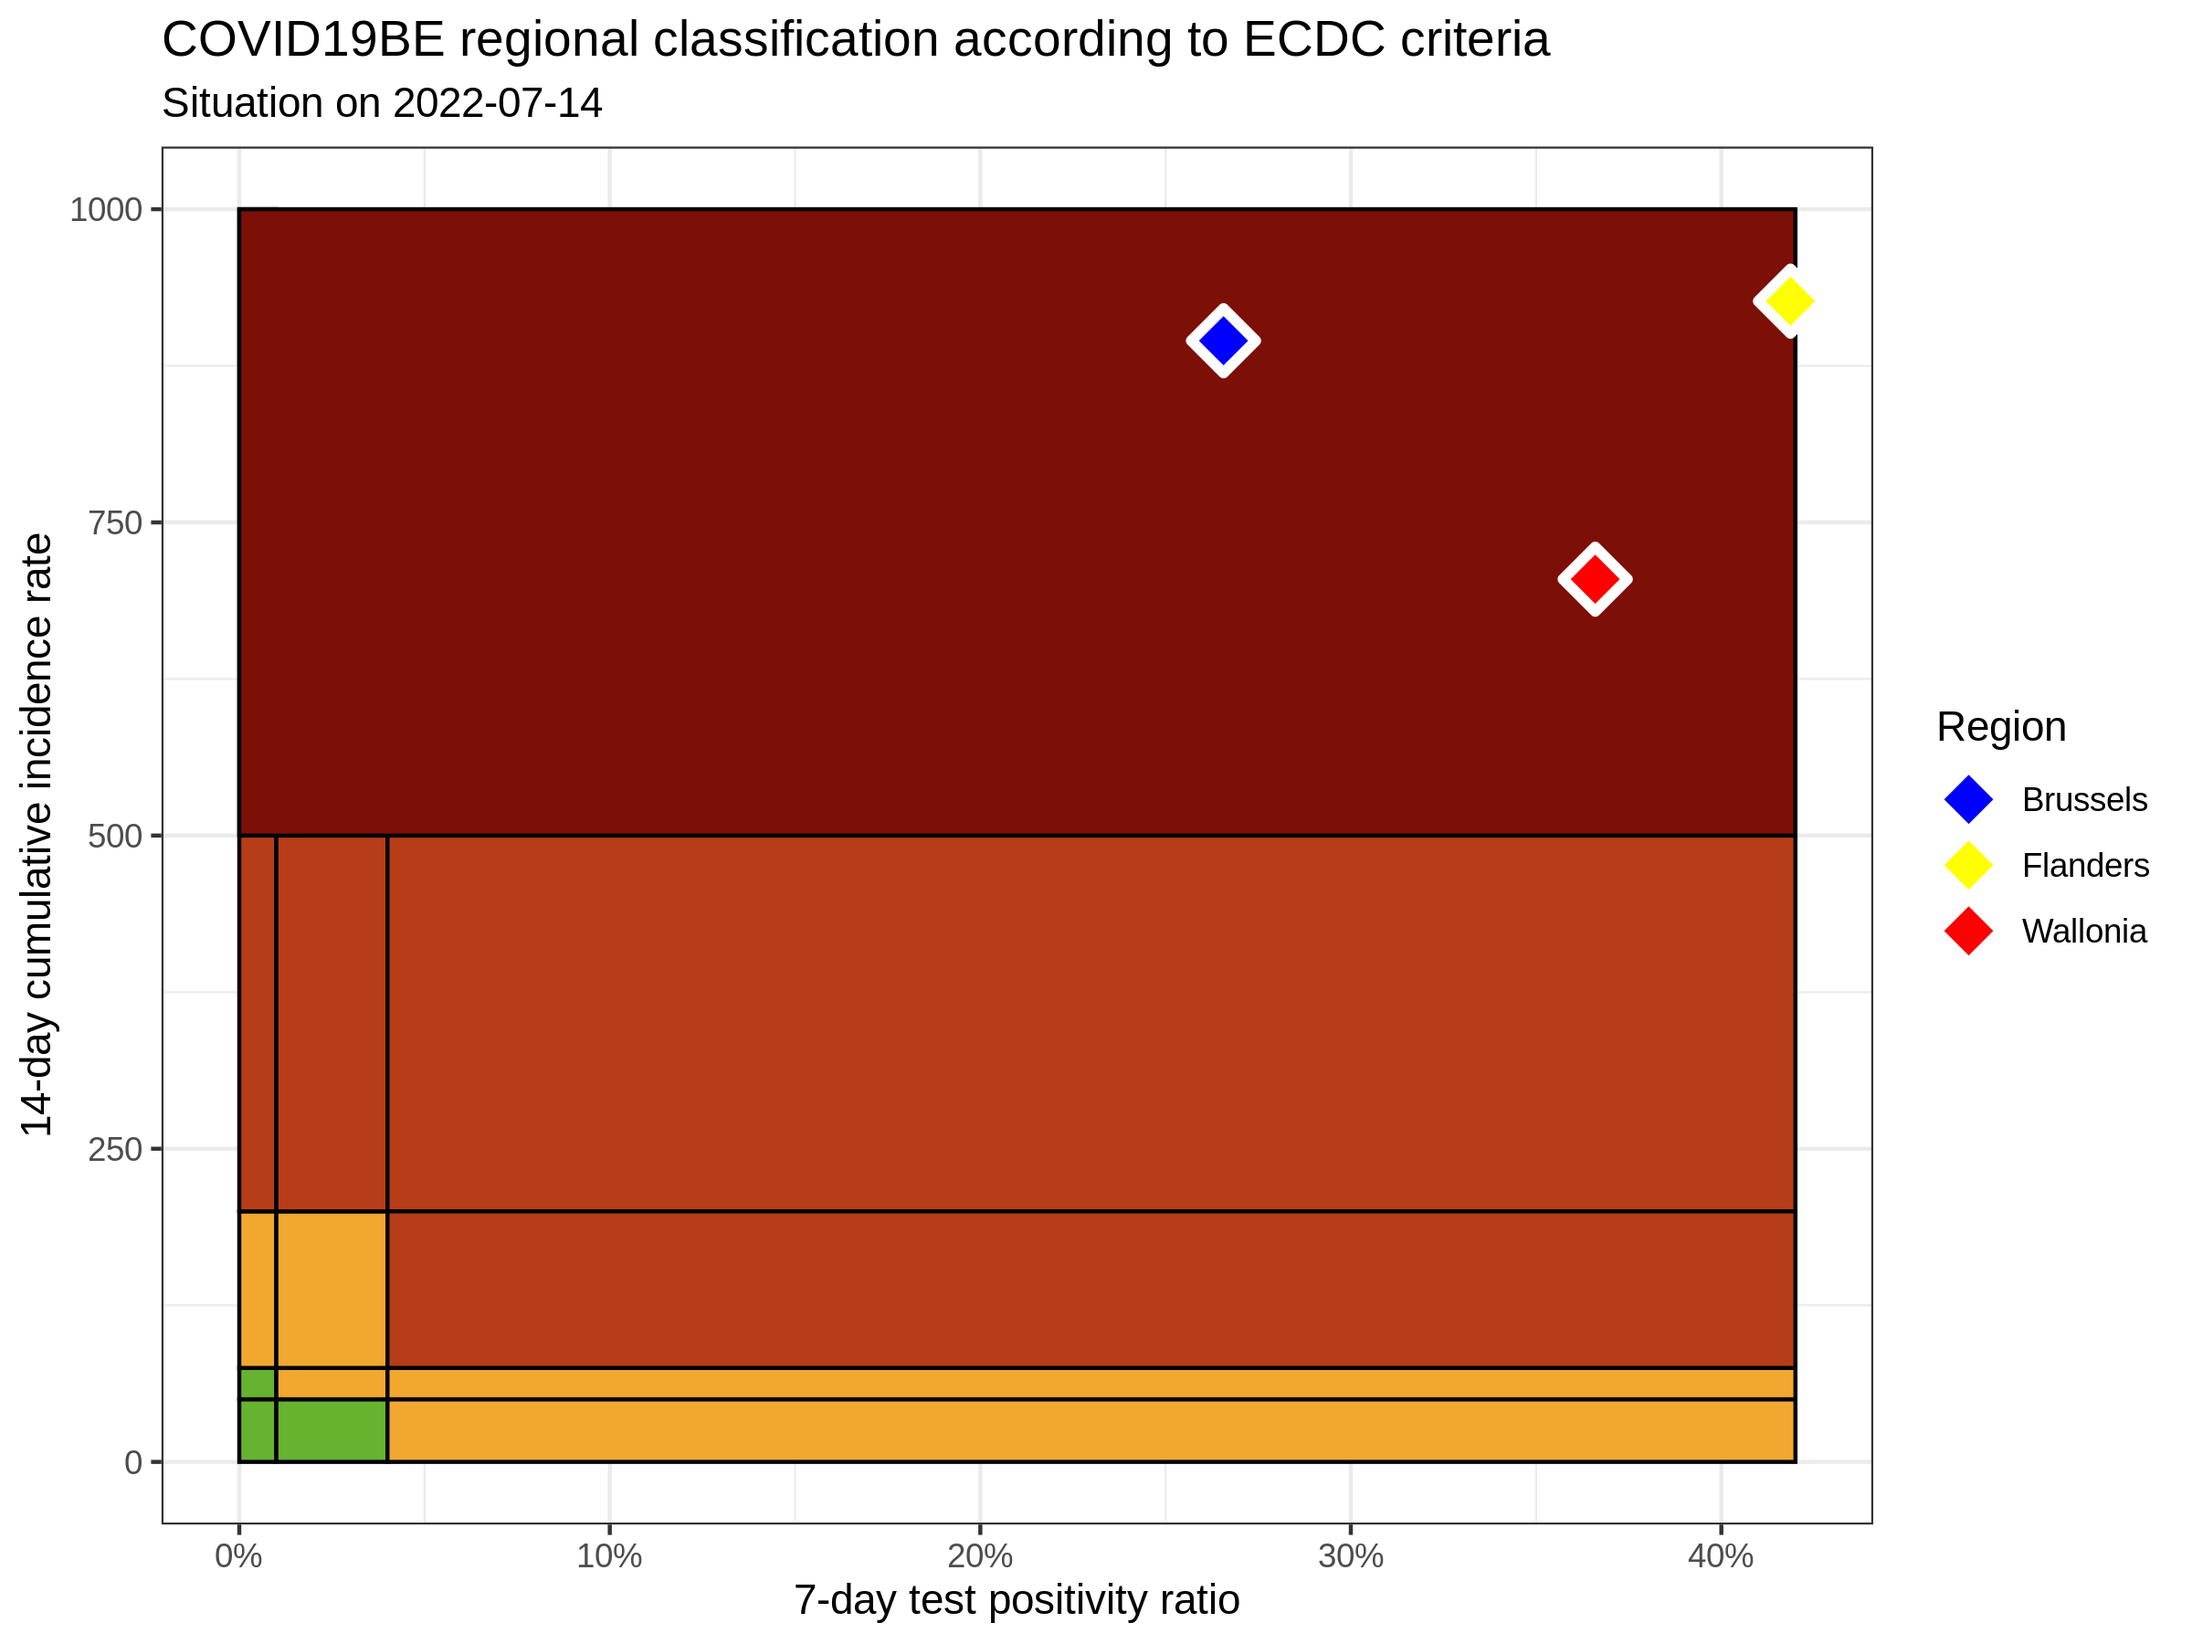
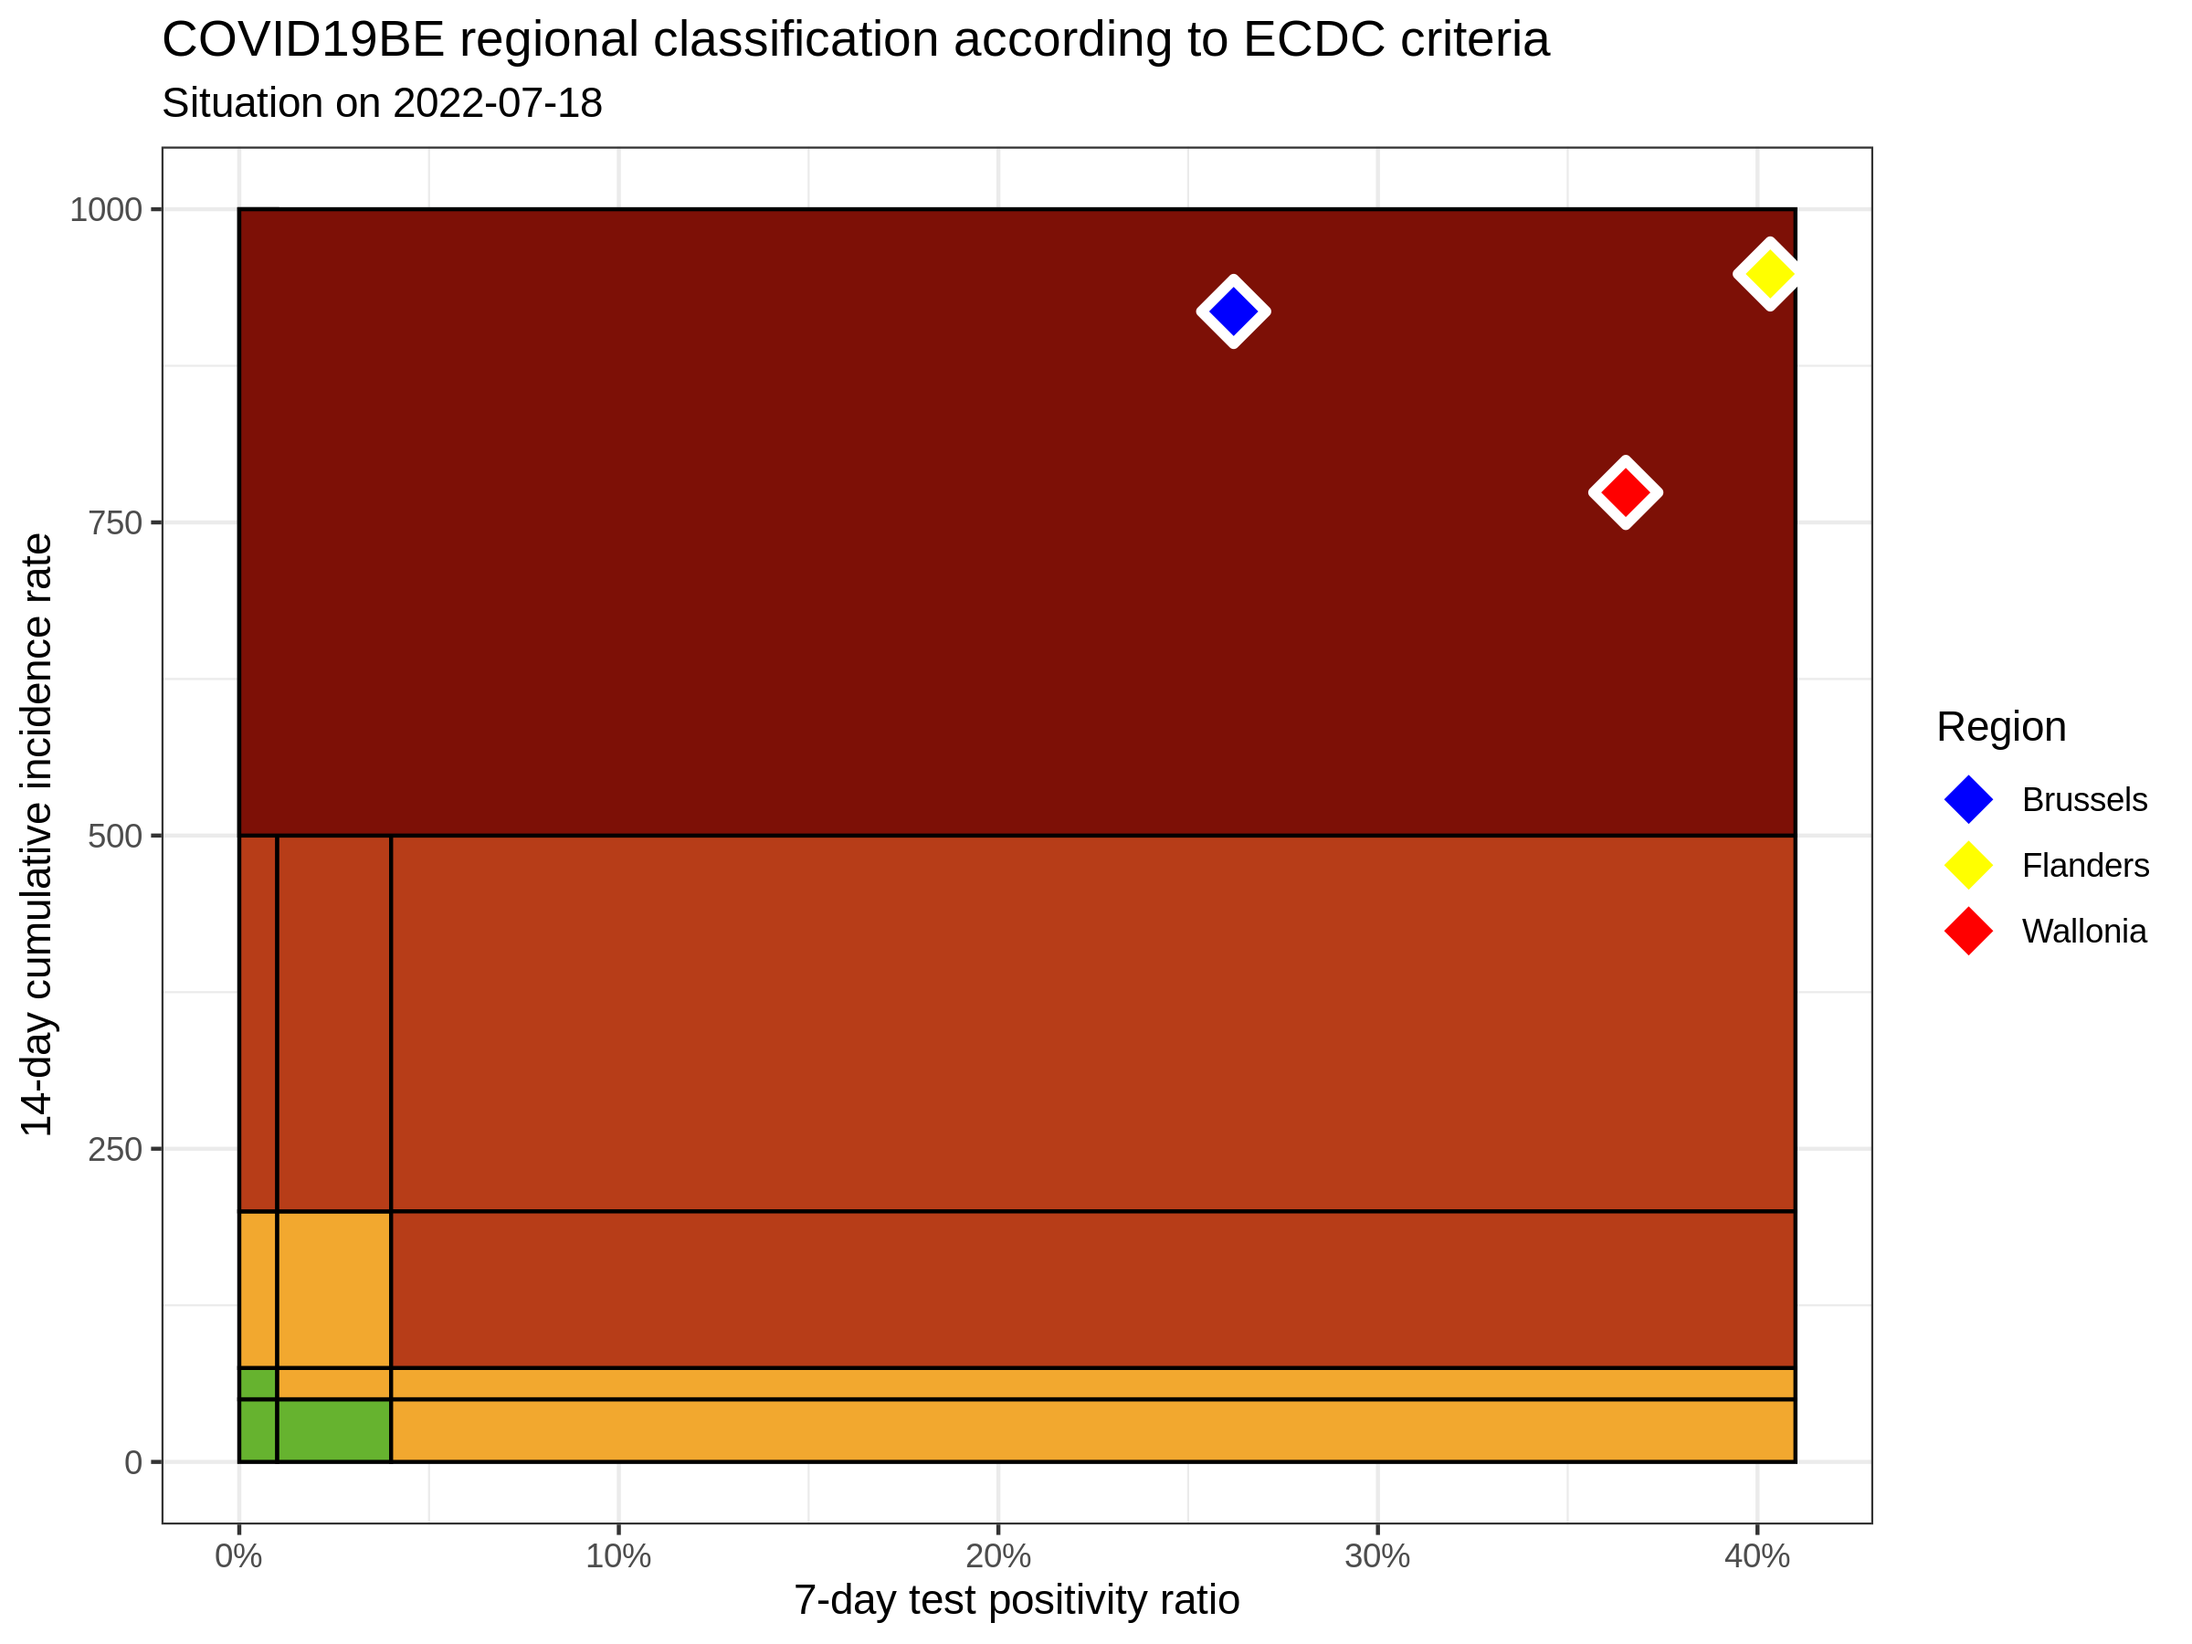
update situation

diff --git a/ecdc-trend/README.md b/ecdc-trend/README.md
@@ -9,11 +9,11 @@
 
 ![](COVID9BE-ecdc-trend.png)
 
-|          | INC14 |  INC7 |  TST7 | TST\_POS7 | REGION   |     POP | INC14\_RT |       PR7 |        GR |
-| :------- | ----: | ----: | ----: | --------: | :------- | ------: | --------: | --------: | --------: |
-| Brussels | 10919 |  5967 | 23769 |      6314 | Brussels | 1219970 |  895.0220 | 0.2656401 | 0.2049677 |
-| Flanders | 61647 | 34047 | 84820 |     35511 | Flanders | 6653062 |  926.5959 | 0.4186631 | 0.2335870 |
-| Wallonia | 25707 | 14701 | 41122 |     15049 | Wallonia | 3648206 |  704.6477 | 0.3659598 | 0.3357260 |
+|          | INC14 |  INC7 |  TST7 | TST\_POS7 | REGION   |     POP | INC14\_RT |       PR7 |          GR |
+| :------- | ----: | ----: | ----: | --------: | :------- | ------: | --------: | --------: | ----------: |
+| Brussels | 11204 |  5249 | 22035 |      5773 | Brussels | 1219970 |  918.3832 | 0.2619923 | \-0.1185558 |
+| Flanders | 63093 | 29591 | 77879 |     31414 | Flanders | 6653062 |  948.3303 | 0.4033693 | \-0.1167393 |
+| Wallonia | 28233 | 14288 | 41333 |     15099 | Wallonia | 3648206 |  773.8872 | 0.3653013 |   0.0245966 |
 
 ### Read more
 
